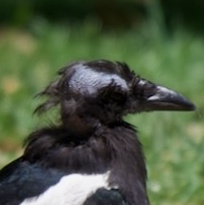
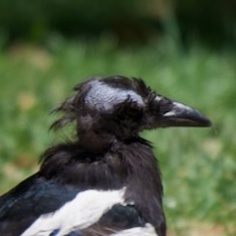
wip

diff --git a/infer.py b/infer.py
@@ -129,7 +129,7 @@ def find_or_download_model(model_path_arg):
     return None
 
 
-def create_square_crop(image_path, bbox, output_dir=None):
+def create_square_crop(image_path, bbox, output_dir=None, padding=0.25):
     """Create a square crop around the detection bounding box."""
     # Load image
     img = cv2.imread(str(image_path))
@@ -139,11 +139,11 @@ def create_square_crop(image_path, bbox, output_dir=None):
     h, w = img.shape[:2]
     x1, y1, x2, y2 = bbox
 
-    # Expand bounding box by 15%
+    # Expand bounding box by specified padding
     width = x2 - x1
     height = y2 - y1
-    expand_w = width * 0.15
-    expand_h = height * 0.15
+    expand_w = width * padding
+    expand_h = height * padding
 
     x1 = max(0, x1 - expand_w)
     y1 = max(0, y1 - expand_h)
@@ -216,6 +216,7 @@ def main():
     parser.add_argument("--conf", type=float, default=0.25, help="Confidence threshold")
     parser.add_argument("--crop", action="store_true", help="Create square crops around detected heads")
     parser.add_argument("--output-dir", type=str, help="Directory to save cropped images (default: next to input)")
+    parser.add_argument("--padding", type=float, default=0.25, help="Padding around bounding box as fraction (default: 0.25 = 25%%)")
 
     args = parser.parse_args()
 
@@ -268,7 +269,7 @@ def main():
                 best_conf = confidences[best_idx]
 
                 # Create square crop
-                crop_path = create_square_crop(source_path, bbox, crop_output_dir)
+                crop_path = create_square_crop(source_path, bbox, crop_output_dir, args.padding)
                 if crop_path:
                     crops_created += 1
                     if detections == 1:

diff --git a/README.md b/README.md
@@ -43,6 +43,9 @@ uv run python infer.py --source example.jpg --crop
 
 # Save crops to specific directory
 uv run python infer.py --source example.jpg --crop --output-dir crops/
+
+# Adjust crop padding (default 25%, 0.5 = 50% padding)
+uv run python infer.py --source example.jpg --crop --padding 0.5
 ```
 
 **Limitations:**
@@ -61,7 +64,7 @@ can be processed with
 uv run python infer.py --source example.jpg --crop
 ```
 
-yielding the output crop saved as `example-crop.jpg`
+yielding the output crop saved as `example-crop.jpg` (with 25% padding around the detected head)
 
 ![](./example-crop.jpg)
 
